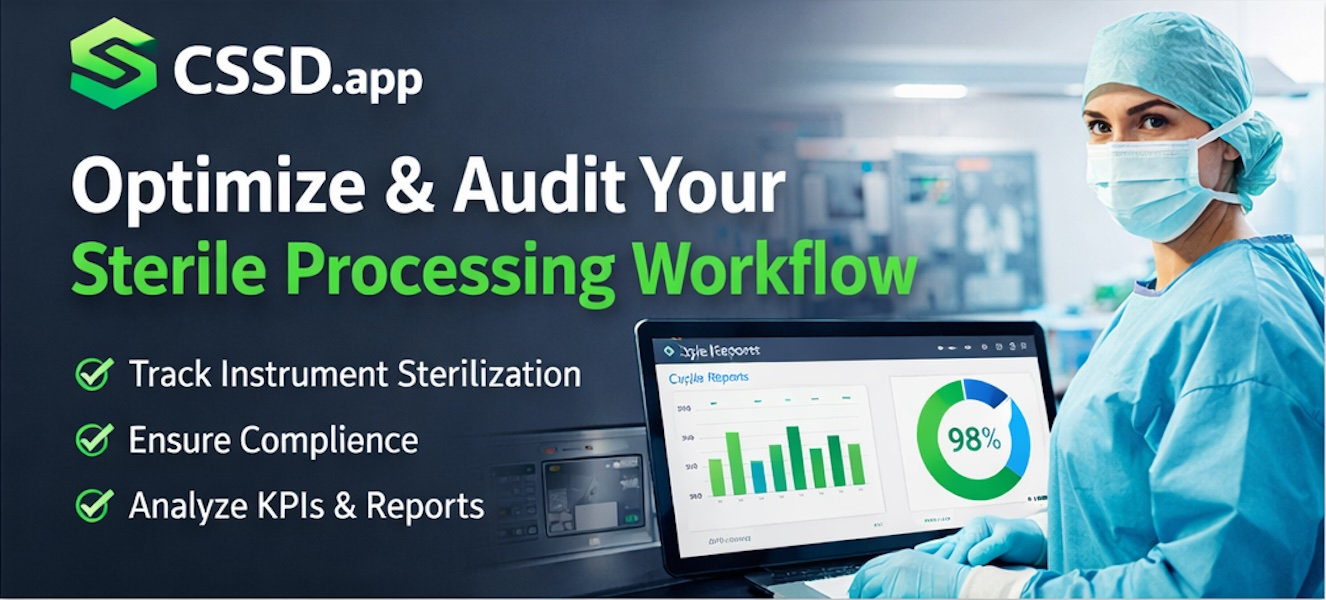
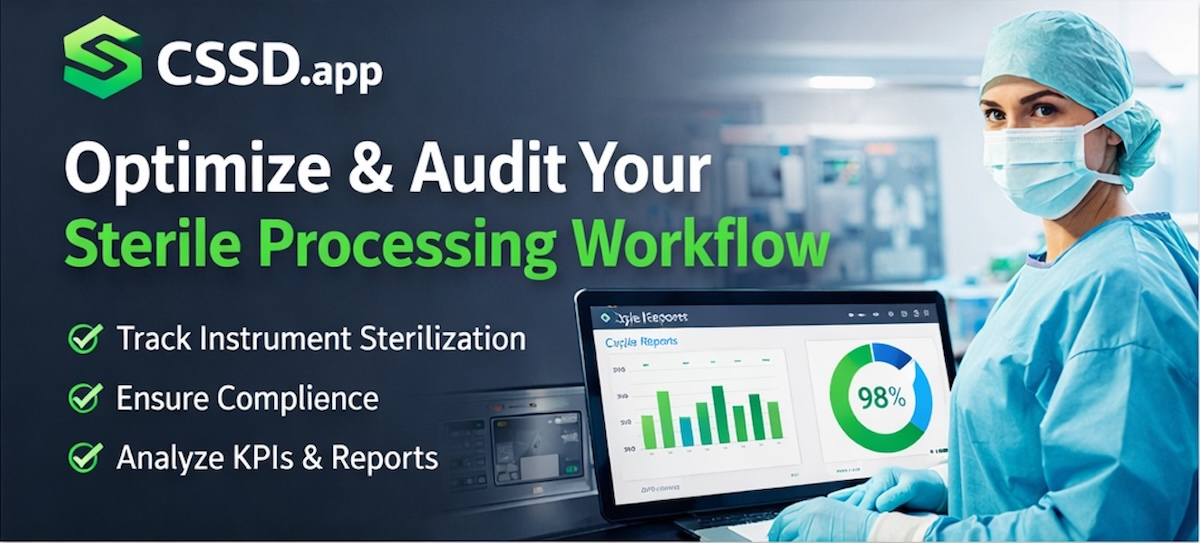
fix

Changed region(s): [[0.3392, 0.6188, 0.4008, 0.6483], [0.3083, 0.825, 0.3392, 0.8545], [0.2467, 0.7072, 0.2775, 0.7366]]

diff --git a/index.html b/index.html
@@ -9,8 +9,8 @@
     <meta name="title" property="og:title" content="CSSD App - CSSD Surgical Instrument Reprocessing SaaS" />
     <meta name="description" property="og:description"
         content="Streamline Your CSSD Operations with AI-Powered Precision" />
-    <meta property="og:image:width" content="1326" />
-    <meta property="og:image:height" content="600" />
+    <meta property="og:image:width" content="1200" />
+    <meta property="og:image:height" content="543" />
     <title>CSSD Audit Dashboard - Real-time Operational Visibility</title>
     <link href="https://fonts.googleapis.com" rel="preconnect" />
     <link crossorigin="" href="https://fonts.gstatic.com" rel="preconnect" />
